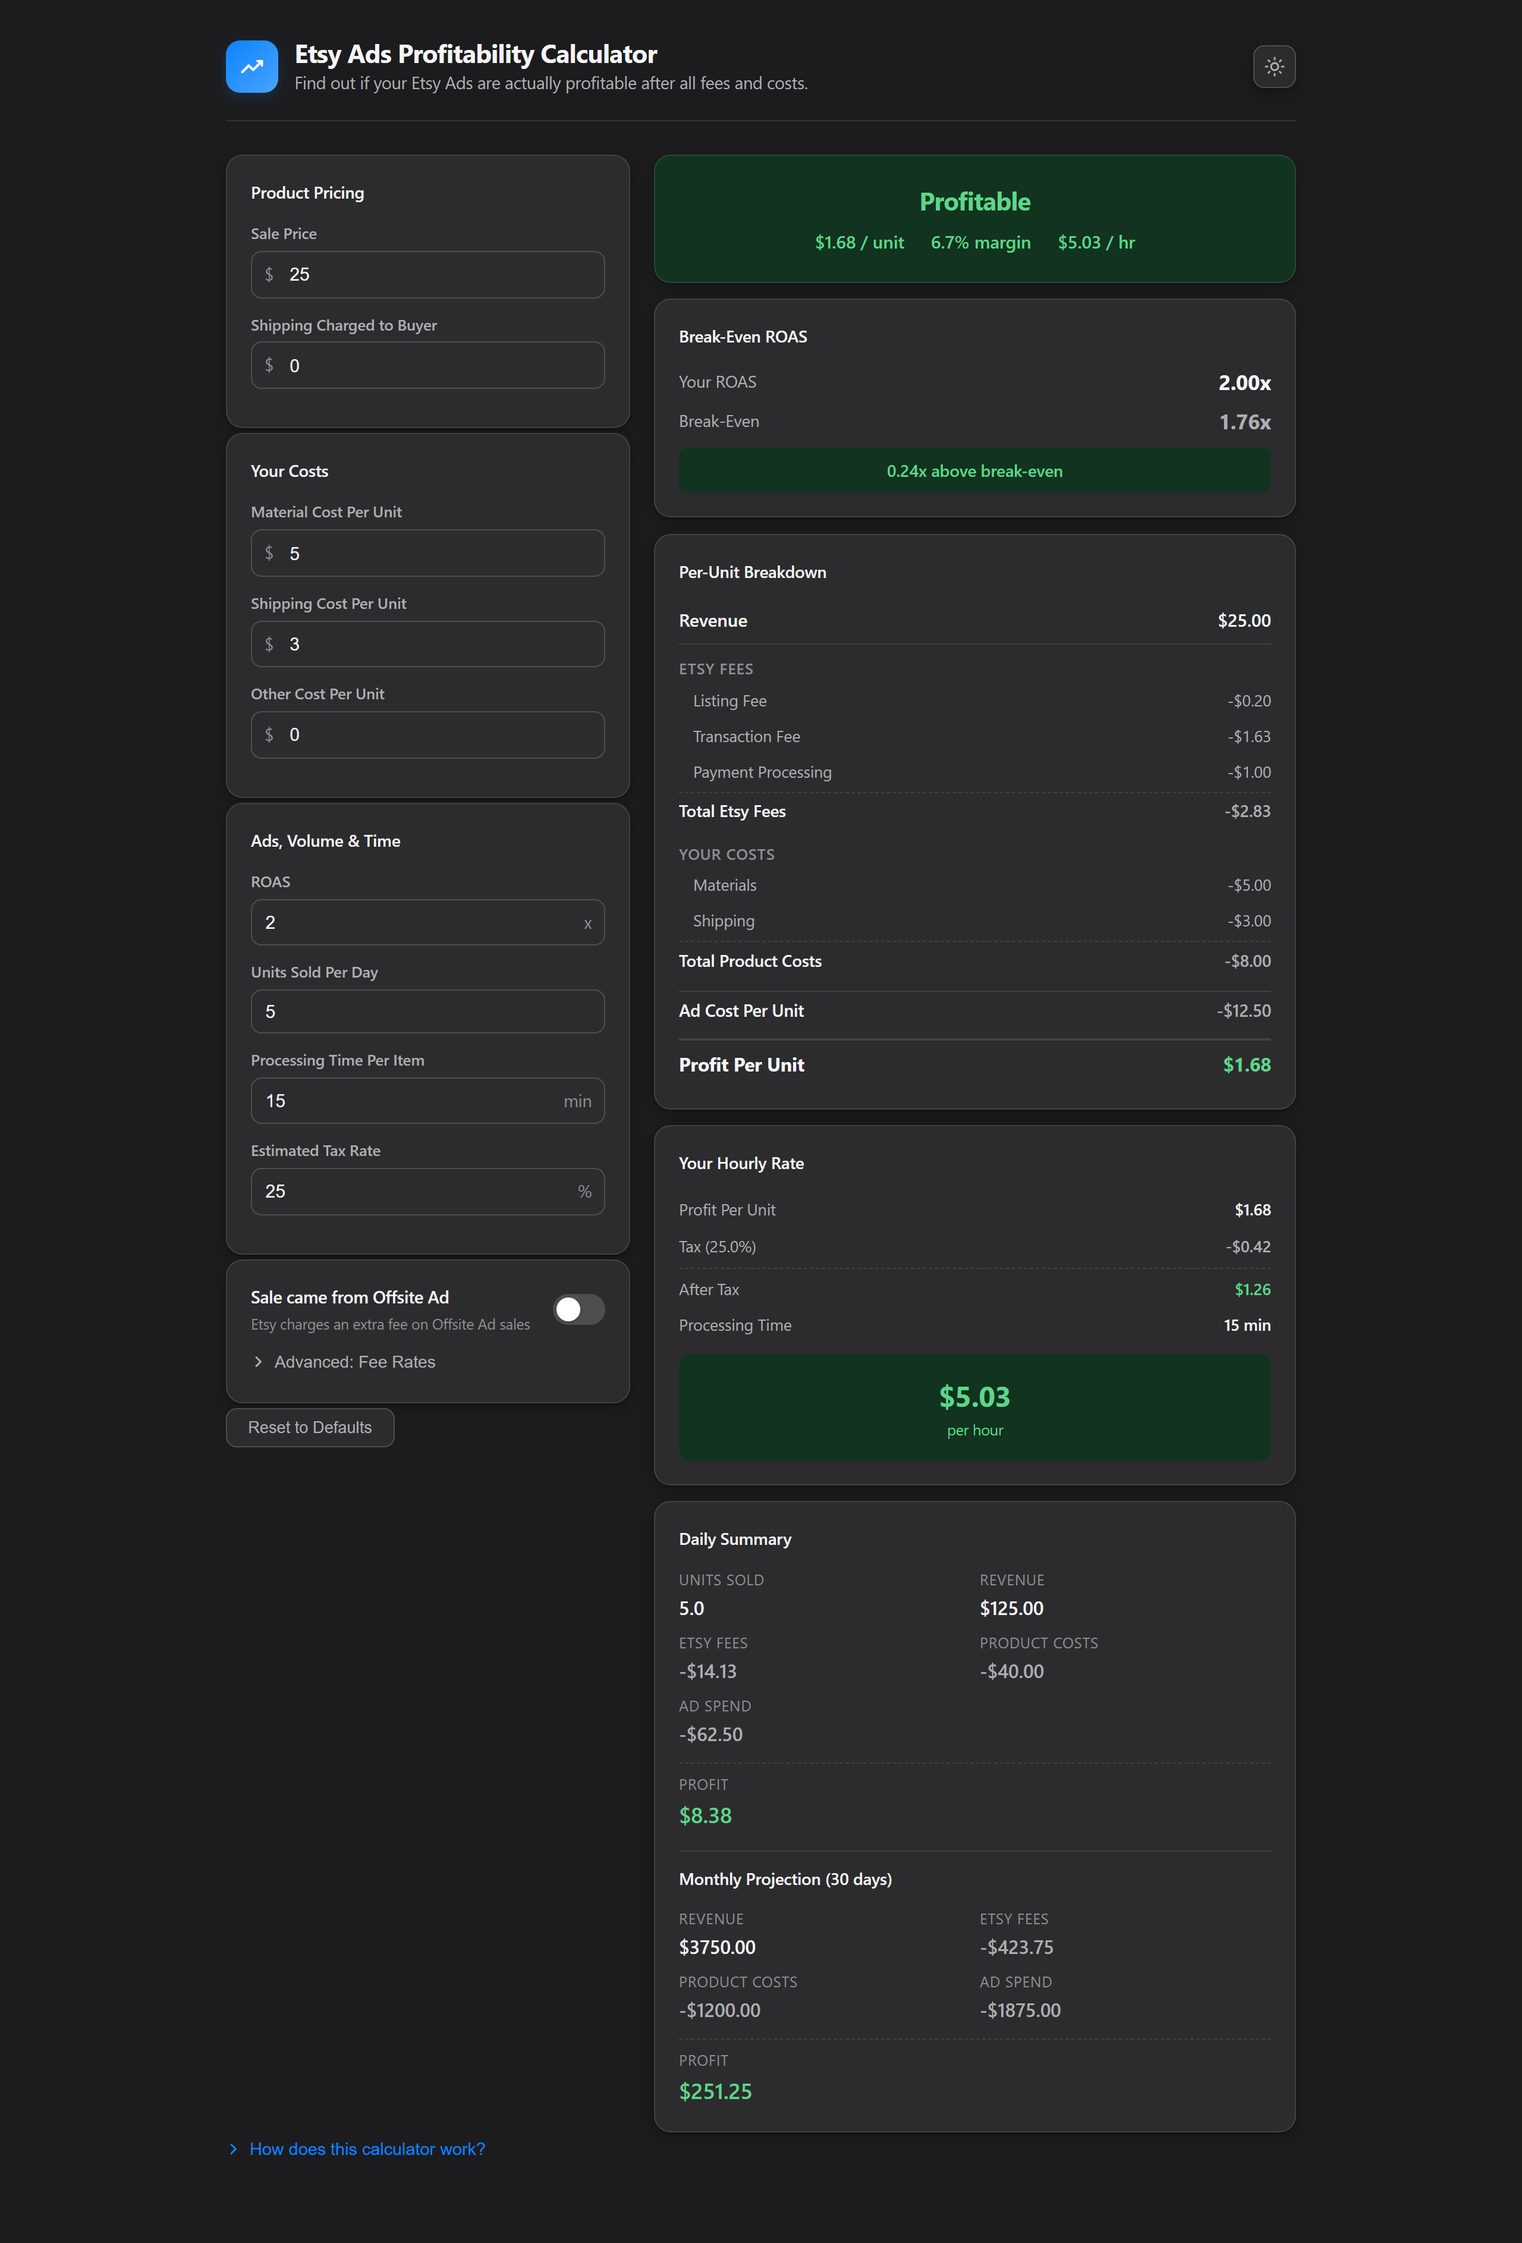
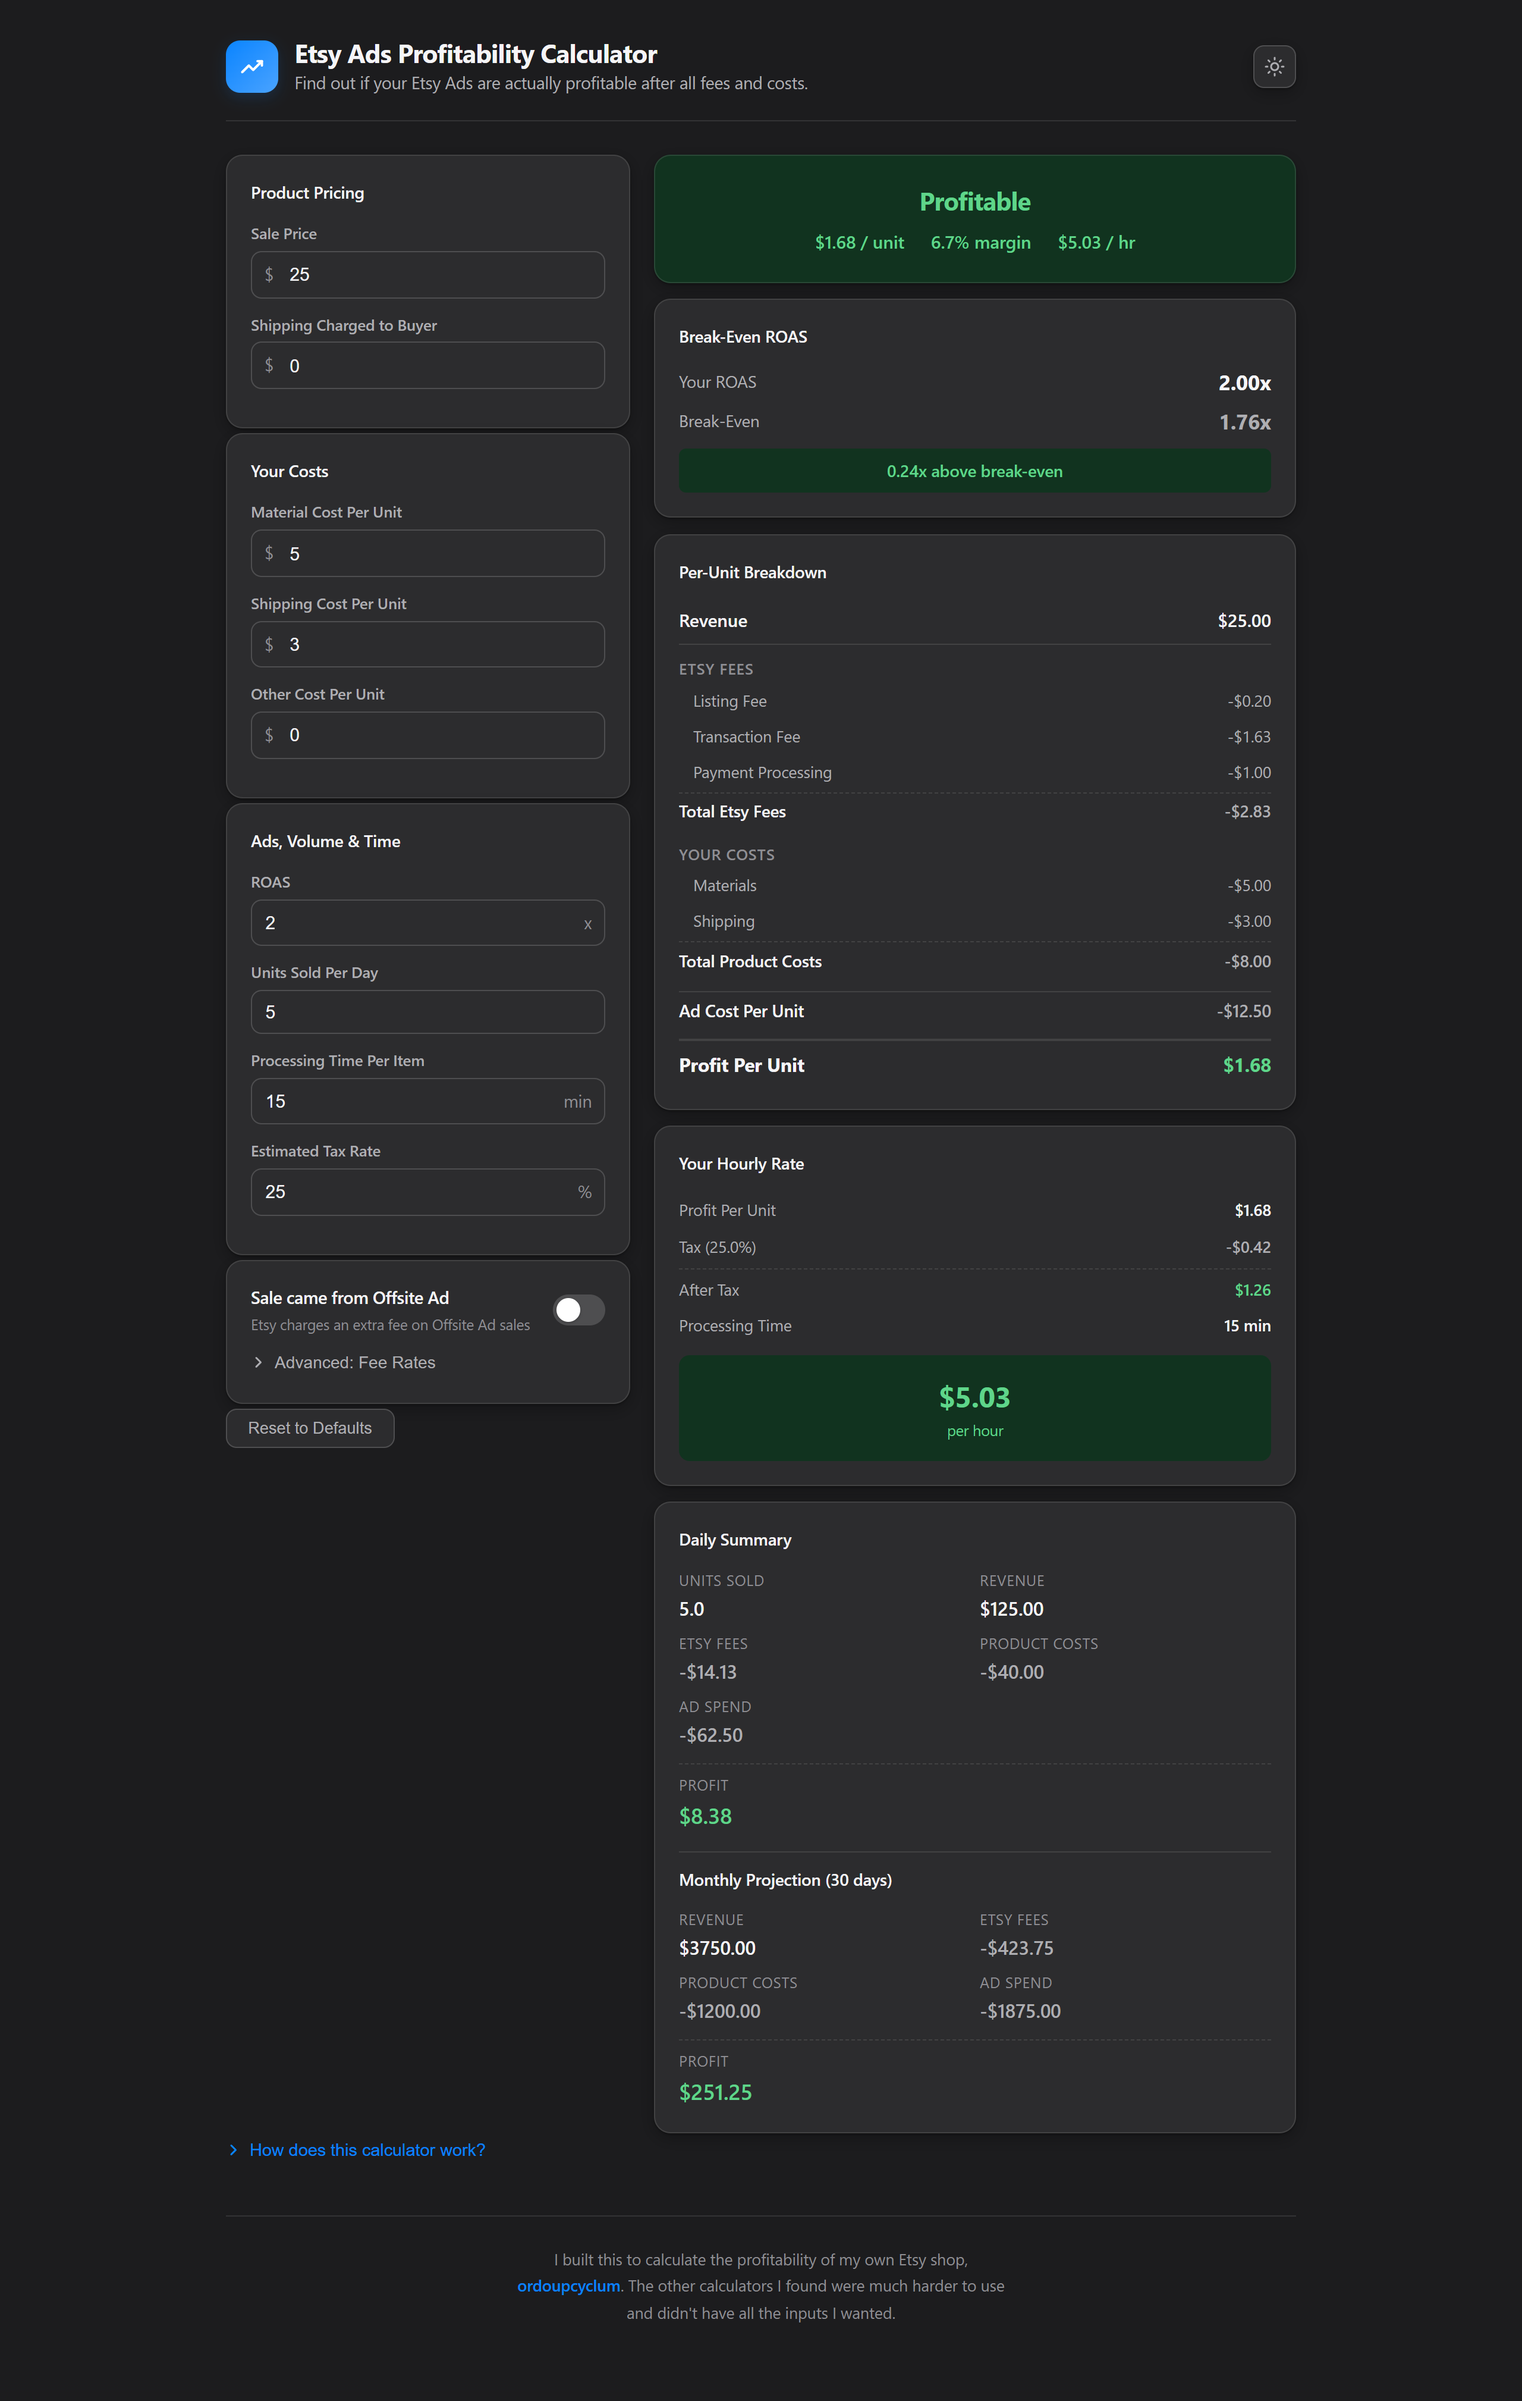
Add a personal footer linking to my Etsy shop
A short note on why I built this — to gauge the profitability of my own
Etsy shop after finding other calculators clunky and missing inputs —
with a link to ordoupcyclum.etsy.com. Regenerate README screenshots to
include the footer.

diff --git a/src/assets/main.css b/src/assets/main.css
@@ -164,6 +164,32 @@ body {
   gap: 0.85rem;
 }
 
+/* --- Footer --- */
+.app-footer {
+  margin-top: 2.5rem;
+  padding-top: 1.5rem;
+  border-top: 1px solid var(--border);
+  text-align: center;
+}
+
+.app-footer p {
+  font-size: 0.85rem;
+  color: var(--text-muted);
+  line-height: 1.65;
+  max-width: 56ch;
+  margin: 0 auto;
+}
+
+.app-footer a {
+  color: var(--accent);
+  font-weight: 500;
+  text-decoration: none;
+}
+
+.app-footer a:hover {
+  text-decoration: underline;
+}
+
 @media (max-width: 520px) {
   .app {
     padding: 1.5rem 1rem 3rem;

diff --git a/src/App.vue b/src/App.vue
@@ -114,5 +114,15 @@ const calc = useCalculator()
     </div>
 
     <HowItWorks />
+
+    <footer class="app-footer">
+      <p>
+        I built this to calculate the profitability of my own Etsy shop,
+        <a href="https://ordoupcyclum.etsy.com/" target="_blank" rel="noopener noreferrer"
+          >ordoupcyclum</a
+        >. The other calculators I found were much harder to use and didn't have all the inputs I
+        wanted.
+      </p>
+    </footer>
   </div>
 </template>
